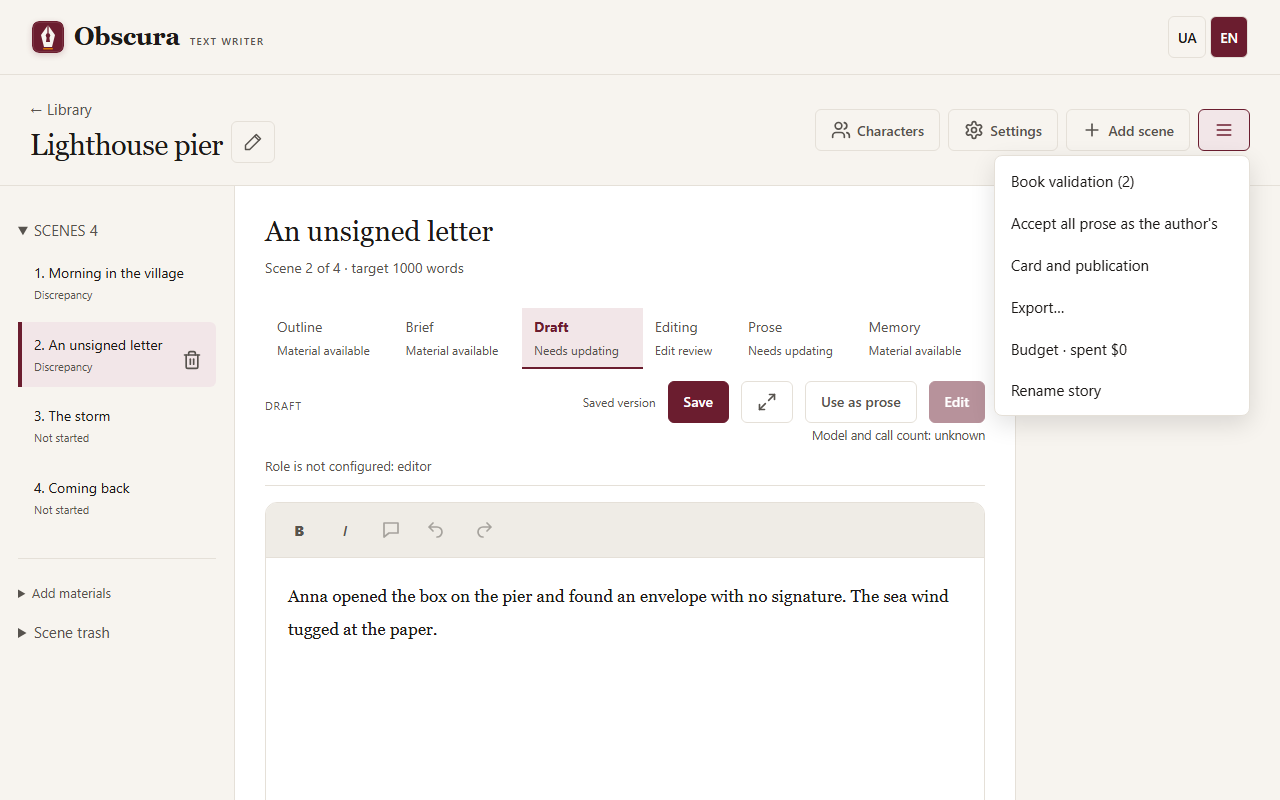
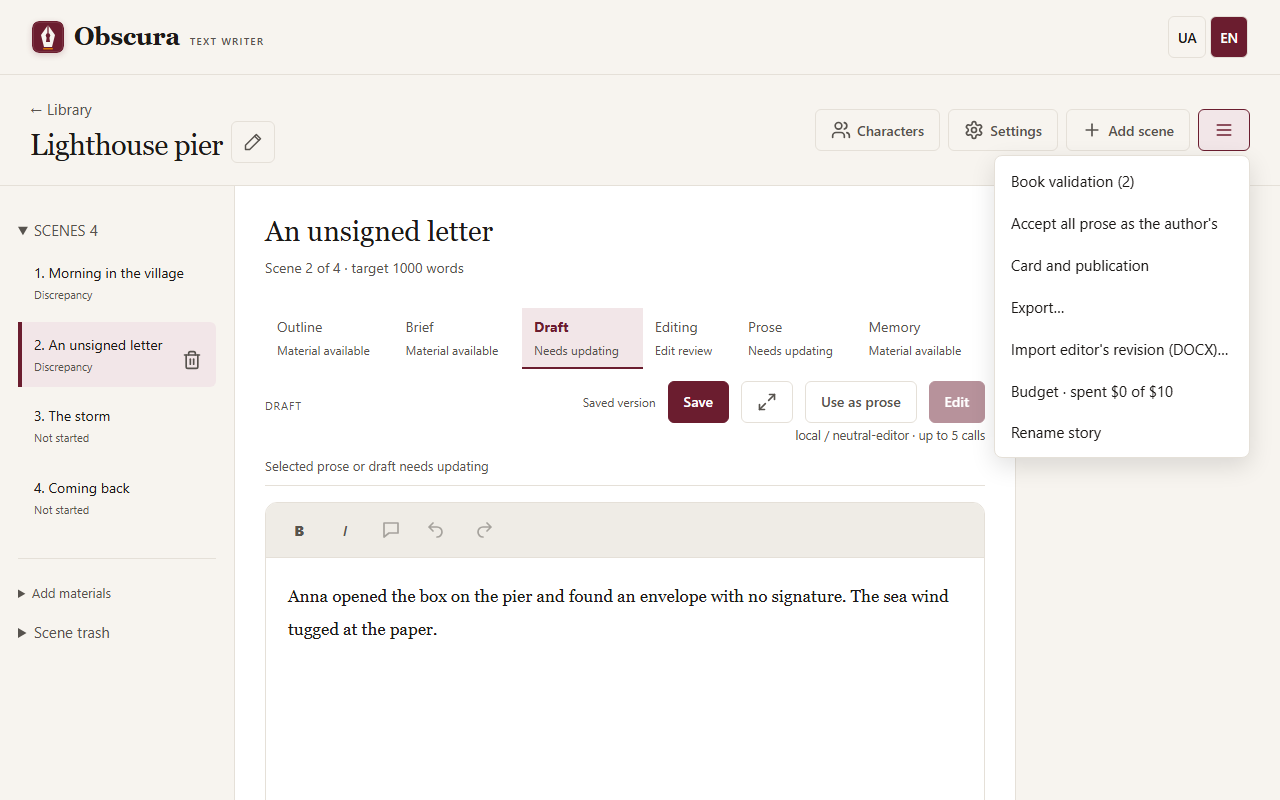
docs(import): сайт uk/en, знімки й SPEC для імпорту редакції
EDITOR-IMPORT-S11 «Діалог імпорту в меню твору»: SPEC (абзац «Інтерфейс»,
поле source у переліку пропозицій EDIT-REVIEW, сусідній пункт у EXPORT-001
й переліку меню; з відомих обмежень прибрано відсутність інтерфейсу й
англійських текстів), traceability (статичні тести + ручна процедура
Playwright docs/verification/manual.md#editor-import-browser), req-маркери
на статичних тестах діалогу.

Оновлені сторінки сайту, обидві мовні версії (uk, en), пари підтверджено
check_site.py --rehash:
- publication: новий розділ «Імпорт редакції (DOCX)» / «Importing the
  editor's revision (DOCX)»; мітки сцен у теперішньому часі;
- revision: речення про мітку «від редактора (DOCX)» з посиланням;
- workspace, first-story: новий пункт у переліку меню твору.

Знімки (scripts/capture_screenshots.py, нейтральний твір STORIES):
- нові docs/images/site/{uk,en}/editor-import-desktop.png — зведення;
- оновлені story-menu-{desktop,mobile}.png uk/en — новий пункт меню.

Changed region(s): [[0.625, 0.4375, 0.9688, 0.5625], [0.2188, 0.5625, 0.375, 0.5938]]

diff --git a/scripts/capture_screenshots.py b/scripts/capture_screenshots.py
@@ -31,7 +31,9 @@ STORIES={
           'prose1':'Анна піднялася гвинтовими сходами до ліхтарної. Унизу, на пристані, Петро махав їй рукою.',
           'prose2':'Анна відчинила скриньку на пристані й побачила конверт без підпису. Вона сховала його в кишеню й пішла додому, не читаючи.',
           'verdict1':('Завдання може розходитися з планом.','План називає ранок у селищі, а завдання — огляд маяка перед світанком.','перед світанком'),
-          'verdict2':('Проза може розходитися із завданням: Анна не читає листа.','Завдання каже, що Анна вирішує прочитати лист, а в прозі вона його не читає.','пішла додому, не читаючи')},
+          'verdict2':('Проза може розходитися із завданням: Анна не читає листа.','Завдання каже, що Анна вирішує прочитати лист, а в прозі вона його не читає.','пішла додому, не читаючи'),
+          # EDITOR-IMPORT-S11: the editor's tracked change in the prose of scene 1 and a comment on the prose of scene 2.
+          'import_edit':('махав їй рукою','помахав їй рукою'),'import_note':('конверт без підпису','Редакторка','Чий це конверт? Варто натякнути раніше.')},
     'en':{'title':'Lighthouse pier','scenes':['Morning in the village','An unsigned letter','The storm','Coming back'],'hero':'Anna',
           'brief':'{"objective":"Anna finds the letter and decides to read it","beats":["Anna opens the box on the pier","Inside lies an envelope with no signature","The sea wind almost tears the paper away"],"constraints":["No flashbacks"],"proposed_changes":[]}',
           'draft':'Anna opened the box on the pier and found an envelope with no signature. The sea wind tugged at the paper.',
@@ -42,7 +44,8 @@ STORIES={
           'prose1':'Anna climbed the spiral stair to the lamp room. Down on the pier, Peter waved to her.',
           'prose2':'Anna opened the box on the pier and found an envelope with no signature. She put it in her pocket and went home without reading it.',
           'verdict1':('The brief may differ from the plan.','The plan names a morning in the village, but the brief has a lighthouse inspection before dawn.','before dawn'),
-          'verdict2':('The prose may differ from the brief: Anna does not read the letter.','The brief says Anna decides to read the letter, but in the prose she does not read it.','went home without reading it')},
+          'verdict2':('The prose may differ from the brief: Anna does not read the letter.','The brief says Anna decides to read the letter, but in the prose she does not read it.','went home without reading it'),
+          'import_edit':('waved to her','waved up at her'),'import_note':('an envelope with no signature','Editor','Whose envelope is it? Worth a hint earlier.')}
 }
 
 
@@ -148,6 +151,17 @@ def seed_stopped_validation(data_dir,ids):
                       ('stage_finished',{'attempt_id':'shot-1','state':'completed','usage':{'cost':{'usd':0.0052}}}),
                       ('audit_step',{'scene_id':first_id,'link':'brief','outcome':'discrepancy','verdict_id':verdict_id,'attempt_id':'shot-1'})):
         run_store.append_run_event(repo,run.id,kind,data)
+
+
+def editor_import_docx(repo,story_id,lang):
+    """EDITOR-IMPORT-S11: the DOCX an editor returns — the story's own manuscript export with a tracked change in scene 1
+    and a comment in scene 2. The export is recorded in the data folder, so it is made after the other shots."""
+    if str(ROOT) not in sys.path:sys.path.insert(0,str(ROOT))  # run as `python scripts/capture_screenshots.py`
+    from storygen.application.exports import export_story
+    from tests.publication.editor_import_helpers import edit,ranged,run,split,tracked
+    spec=STORIES[lang];(old,new),(phrase,author,note)=spec['import_edit'],spec['import_note']
+    content=export_story(repo,story_id,'docx',allow_incomplete=True).read_bytes()
+    return edit(content,lambda xml:split(split(xml,old,tracked(old,new)),phrase,ranged(7,run(phrase))),[(7,author,note)])
 
 
 def free_port():
@@ -259,6 +273,27 @@ def capture_validation(base,ids,lang):
     return shots
 
 
+def capture_editor_import(base,ids,lang,docx):
+    """EDITOR-IMPORT-S11: the import dialog with the summary of the editor's DOCX; nothing is imported."""
+    from playwright.sync_api import sync_playwright
+    folder=OUT/lang;folder.mkdir(parents=True,exist_ok=True);story,scene=ids['story_id'],ids['scene_id']
+    with sync_playwright() as p:
+        browser=p.chromium.launch()
+        try:
+            page=browser.new_page(viewport={'width':1280,'height':800},locale='uk-UA' if lang=='uk' else 'en-US')
+            page.goto(base+'/');page.locator(f'[data-ui-locale={lang}]').click();page.wait_for_load_state('networkidle')
+            page.goto(f'{base}/stories/{story}?scene={scene}&material=draft');page.wait_for_load_state('networkidle')
+            page.locator('#story-menu-toggle').click();page.locator('#import-edition').click()
+            dialog=page.locator('#editor-import-dialog');dialog.wait_for(state='visible')
+            dialog.locator('#editor-import-file').set_input_files({'name':'edition.docx','buffer':docx,
+                'mimeType':'application/vnd.openxmlformats-officedocument.wordprocessingml.document'})
+            dialog.locator('#editor-import-summary').wait_for(state='visible')
+            page.mouse.move(0,0);path=folder/'editor-import-desktop.png';shot(page,path,[])
+            page.close()
+        finally:browser.close()
+    return [path]
+
+
 def shot(page,path,shots):
     page.wait_for_timeout(300);page.screenshot(path=str(path));shots.append(path)
 
@@ -283,6 +318,8 @@ def main(argv=None):
             shots+=capture(base,ids,[lang])
             seed_stopped_validation(data,ids[lang])
             shots+=capture_validation(base,ids[lang],lang)
+            from storygen.storage.repository import Repository
+            shots+=capture_editor_import(base,ids[lang],lang,editor_import_docx(Repository(data),ids[lang]['story_id'],lang))
         finally:
             server.terminate()
             try:server.wait(timeout=10)

diff --git a/tests/test_capture_screenshots.py b/tests/test_capture_screenshots.py
@@ -65,3 +65,19 @@ def test_relative_work_dir_is_resolved_before_seeding(tmp_path,monkeypatch):
     from scripts.capture_screenshots import resolve_work_dir
     monkeypatch.chdir(tmp_path)
     assert resolve_work_dir('shots')==(tmp_path/'shots').resolve()
+
+
+@pytest.mark.req('EDITOR-IMPORT')
+def test_editor_import_docx_gives_a_changed_scene_and_a_comment(tmp_path):
+    from scripts.capture_screenshots import editor_import_docx
+    from storygen.application.editor_import import preview_import
+    ids=seed(tmp_path/'data')
+    repo=Repository(tmp_path/'data')
+    for lang in ('uk','en'):
+        story=ids[lang]['story_id']
+        preview=preview_import(repo,story,editor_import_docx(repo,story,lang))
+        by_id={scene.scene_id:scene for scene in preview.scenes}
+        first,second=by_id[ids[lang]['first_id']],by_id[ids[lang]['scene_id']]
+        assert (first.status,first.edits)==('changed',1)
+        assert second.status=='comments_only' and second.comments==1
+        assert not preview.choice_required and not preview.unmatched

diff --git a/tests/web/test_editor_import_ui.py b/tests/web/test_editor_import_ui.py
@@ -3,11 +3,14 @@ import json
 import re
 from pathlib import Path
 
+import pytest
+
 from tests.web.test_workspace_layout_ui import page
 
 STATIC = Path(__file__).resolve().parents[2]/'src/storygen/web/static'
 
 
+@pytest.mark.req('EDITOR-IMPORT')
 def test_editor_import_dialog_markup(tmp_path):
     tree, html = page(tmp_path)
     menu = html[html.index('<nav id="story-menu"'):html.index('</nav>', html.index('<nav id="story-menu"'))]
@@ -32,6 +35,7 @@ def test_editor_import_dialog_markup(tmp_path):
     assert '<script type="module" src="/static/editor-imports.js"></script>' in html
 
 
+@pytest.mark.req('EDITOR-IMPORT')
 def test_editor_import_strings_and_server_texts():
     catalog = json.loads((STATIC/'i18n.json').read_text(encoding='utf-8'))
     assert catalog['uk']['editor_import.menu'] == 'Імпорт редакції (DOCX)…'

diff --git a/docs/site/uk/publication.md b/docs/site/uk/publication.md
@@ -39,10 +39,49 @@
 
 DOCX і RTF призначені для того, щоб передати книгу зовнішньому редактору; для друку беріть PDF. Рукопис оформлено звично для редакторів: A4, Times New Roman 12 пт, полуторний інтервал, номер сторінки внизу. На титульній сторінці — назва, автори й кількість слів; кожна частина й кожна сцена починаються з нової сторінки, а заголовки мають стилі Word «Заголовок 1» і «Заголовок 2», тож структуру видно в області навігації. Мова тексту береться з картки публікації, щоб Word перевіряв правопис потрібною мовою.
 
-DOCX містить невидимі мітки сцен: за ними Obscura зможе розкласти повернену редакцію назад по сценах. Мітки переживають звичайне редагування й режим рецензування, але зникають разом із заголовком сцени, якщо редактор його видалить. RTF таких міток не має; він для редакторів без Word.
+DOCX містить невидимі мітки сцен: за ними Obscura розкладає повернену редакцію назад по сценах (див. [Імпорт редакції](#імпорт-редакції-docx)). Мітки переживають звичайне редагування й режим рецензування, але зникають разом із заголовком сцени, якщо редактор його видалить. RTF таких міток не має; він для редакторів без Word.
 
 Файл книги завантажується під іменем з автора, назви й дати експорту, наприклад `Автор — Назва — 2026-11-21.epub`. Кількох авторів з'єднано через «та»; коми, крапки й символи, заборонені в іменах файлів Windows, замінено пробілом, а задовгу назву скорочено. Якщо автора не вибрано, ім'я починається з назви.
 
 У тому самому списку є пункт **«План і персонажі (.md)»**. Він дає один читабельний файл із загальними нотатками плану, планом кожної сцени в порядку читання й картками персонажів. Прози для нього не потрібно, але незбережені правки спершу треба зберегти. Файл збирається з поточного стану під час завантаження й не зберігається серед експортів. Назад його не імпортувати: для імпорту є окремі шаблони плану й персонажів.
 
 Для FB2, EPUB, PDF і обкладинки потрібні додаткові залежності `publication`; інсталятор їх містить. Під час встановлення з вихідного коду дивіться [Встановлення](install.md).
+
+### Імпорт редакції (DOCX)
+
+Коли редактор поверне рукопис, перенесіть його правки назад у твір. Obscura не змінює прозу сама: правки стають пропозиціями, які ви приймаєте чи відхиляєте, а модель не викликається.
+
+1. Експортуйте **Рукопис Word (.docx)** і передайте файл редактору.
+2. Редактор править файл у Word, краще з увімкненим режимом виправлень, і лишає примітки до фраз.
+3. Збережіть ручні правки у творі й відкрийте **☰ «Дії твору» → «Імпорт редакції (DOCX)…»**. Поки є незбережені правки, пункт недоступний і показує «Спершу збережіть ручні правки». Виберіть файл до 20 MiB.
+4. Ви побачите зведення: таблицю сцен зі статусом, кількістю правок і приміток та попередженнями. Твір змінюється лише після підтвердження.
+
+![Зведення імпорту редакції](../../images/site/uk/editor-import-desktop.png)
+
+Статуси сцен:
+
+- **змінено** — редактор правив текст; правки стануть пропозицією.
+- **лише примітки** — текст без змін, примітки стануть коментарями.
+- **без змін** — нічого імпортувати.
+- **лише чернетка: правки не вміщуються в перегляд** — правок забагато для перегляду по одній; текст редактора стане новою версією чернетки без пропозиції.
+- **прозу змінено після експорту** і **немає даних про експорт** — ви правили сцену після експорту або редактор працював без режиму виправлень і Obscura не знає, з якого тексту він починав. Такі сцени потребують вашого вибору.
+- **спершу вирішіть попередню пропозицію** — у сцени ще є невирішена пропозиція з попереднього імпорту; повторний імпорт її не дублює.
+- **у сцени немає прози** і **розмітку прози не передати через DOCX** — сцену не імпортовано.
+
+Якщо всі сцени можна імпортувати без вибору, натисніть **Імпортувати (N сцен)**. Якщо є сцени, змінені після експорту, діалог назве їх, а в таблиці для кожної буде видно, що станеться «при заміні». Замість однієї кнопки з'являться три:
+
+- **Скасувати імпорт** — нічого не змінювати й прибрати завантажений файл;
+- **Пропустити змінені сцени** — імпортувати решту, а змінені сцени лишити як є;
+- **Замінити все** — імпортувати й змінені сцени. Ваші пізніші зміни з'являться як правки, які можна відхилити.
+
+Якщо твір змінився, поки було відкрито зведення, імпорт нічого не запише й попросить вибрати файл ще раз.
+
+Після імпорту підсумок показує, скільки сцен імпортовано й пропущено, з посиланнями на сцени. Правки — на вкладці **Редактура** сцени: розгорніть **Правки редактора**; пропозиція має мітку «· від редактора (DOCX)» і примітку, що модель не викликалася. Приймайте правки так само, як після [редактури](revision.md#редактура-сцени). Примітки редактора стають [коментарями чернетки](writing-tools.md#коментарі-до-чернетки): примітка до незміненої фрази прив'язується до неї, інші — до загального коментаря з цитатою. Попередні коментарі чернетки лишаються в попередній версії чернетки.
+
+Обмеження:
+
+- таблиці, зображення, виноски й зміни форматування, окрім курсиву й жирного, не імпортуються — зведення показує попередження;
+- правка в заголовку сцени не імпортується, а сцена, з якої редактор вилучив увесь текст, пропускається;
+- новий абзац, який редактор вставив одразу після списку, цитати чи рядка з розривом, може злитися з ним — зведення попереджає про це, перевірте межі абзаців у пропозиції;
+- перевірено лише з Microsoft Word; Google Docs та інші редактори не перевірялися;
+- імпорт розрахований на DOCX, експортований з Obscura для цього твору; файл з іншого твору відхиляється, а RTF не імпортується.

diff --git a/docs/site/en/publication.md b/docs/site/en/publication.md
@@ -39,10 +39,49 @@ A finished file does not change when you edit the text: create a new export.
 
 DOCX and RTF are for handing the book to an outside editor; for print, use PDF. The manuscript uses the layout editors expect: A4, Times New Roman 12 pt, 1.5 line spacing, page numbers at the bottom. The title page holds the title, the authors and the word count; every part and every scene starts on a new page, and the headings use the Word styles Heading 1 and Heading 2, so the structure shows in the navigation pane. The text language comes from the publication card, so Word checks spelling in the right language.
 
-DOCX carries invisible scene marks: Obscura will use them to sort a returned edit back into scenes. The marks survive ordinary editing and track changes, but disappear together with a scene heading if the editor deletes it. RTF has no such marks; it is for editors without Word.
+DOCX carries invisible scene marks: Obscura uses them to sort a returned edit back into scenes (see [Importing the editor’s revision](#importing-the-editors-revision-docx)). The marks survive ordinary editing and track changes, but disappear together with a scene heading if the editor deletes it. RTF has no such marks; it is for editors without Word.
 
 The book file downloads under a name made of the author, the title and the export date, for example `Author — Title — 2026-11-21.epub`. Several authors are joined with “and” in an English card; commas, full stops and characters Windows does not allow in file names become spaces, and a long title is shortened. Without an author the name starts with the title.
 
 The same list has a **Plan and characters (.md)** item. It gives you one readable file with the general plan notes, the plan of each scene in reading order and the character cards. It needs no prose, but save unsaved edits first. The file is built from the current state when you download it and is not kept among the exports. It cannot be imported back: importing uses the separate plan and character templates.
 
 FB2, EPUB, PDF and covers need the `publication` extras; the installer includes them. For an installation from source, see [Installation](install.md).
+
+### Importing the editor’s revision (DOCX)
+
+When the editor returns the manuscript, bring their edits back into the story. Obscura does not change the prose by itself: the edits become proposals you accept or reject, and no model is called.
+
+1. Export the **Word manuscript (.docx)** and give the file to the editor.
+2. The editor edits the file in Word, preferably with track changes turned on, and leaves comments on phrases.
+3. Save your unsaved edits in the story and open **☰ Story actions → Import editor's revision (DOCX)…**. While there are unsaved edits, the item is unavailable and shows "Save your changes first". Choose a file of up to 20 MiB.
+4. You see a summary: a table of scenes with a status, the number of edits and comments, and warnings. The story changes only after you confirm.
+
+![Editor’s revision import summary](../../images/site/en/editor-import-desktop.png)
+
+Scene statuses:
+
+- **changed** — the editor edited the text; the edits become a proposal.
+- **comments only** — the text is unchanged, the comments become draft comments.
+- **unchanged** — nothing to import.
+- **draft only: the edits do not fit into the review** — there are too many edits to review one by one; the editor’s text becomes a new draft version without a proposal.
+- **prose changed after export** and **no export data** — you edited the scene after the export, or the editor worked without track changes and Obscura does not know which text they started from. These scenes need your choice.
+- **resolve the previous proposal first** — the scene still has an unresolved proposal from an earlier import; importing again does not duplicate it.
+- **the scene has no prose** and **the prose markup cannot pass through DOCX** — the scene is not imported.
+
+If every scene can be imported without a choice, press **Import (N scenes)**. If some scenes changed after the export, the dialog names them, and the table shows for each what happens "if replaced". Instead of one button there are three:
+
+- **Cancel import** — change nothing and remove the uploaded file;
+- **Skip changed scenes** — import the rest and leave the changed scenes as they are;
+- **Replace all** — import the changed scenes too. Your later changes will appear as edits you can reject.
+
+If the story changed while the summary was open, the import writes nothing and asks you to choose the file again.
+
+After the import, the result shows how many scenes were imported and skipped, with links to the scenes. The edits are on the scene’s **Editing** tab: expand **Editor changes**; the proposal is marked “· from editor (DOCX)” with a note that no model was called. Accept the edits as after [editing](revision.md#editing-a-scene). The editor’s comments become [draft comments](writing-tools.md#draft-comments): a comment on an unchanged phrase is attached to it, the others go into the general comment with a quote. The earlier draft comments stay in the previous draft version.
+
+Limitations:
+
+- tables, images, footnotes and formatting changes other than italics and bold are not imported — the summary shows a warning;
+- an edit in a scene heading is not imported, and a scene whose whole text the editor deleted is skipped;
+- a new paragraph the editor inserted right after a list, a quote or a line with a break may merge with it — the summary warns about this, so check paragraph boundaries in the proposal;
+- only Microsoft Word has been tested; Google Docs and other editors have not;
+- the import is meant for a DOCX exported from Obscura for this story; a file from another story is rejected, and RTF is not imported.

diff --git a/docs/verification/manual.md b/docs/verification/manual.md
@@ -546,6 +546,17 @@ PLAN-PREAMBLE-S02, PLAN-PREAMBLE-S04. Запустіть Obscura з порожн
 4. Збережіть імпорт першої копії й перевірте: на вкладці редактури другої сцени є пропозиція з однією правкою, на вкладці чернетки третьої сцени — коментар, проза жодної сцени не змінилася.
 Доказ поведінки закладок — проба специфікації зміни (`docs/superpowers/specs/2026-11/2026-11-24-editor-docx-import-design.md`, §2.5): з рецензуванням Word зберіг усі закладки, без нього закладка сцени з цілком заміненою назвою зникла. Цей зв’язок не є доказом виконання; фактичний запуск фіксується окремо.
 
+<a id="editor-import-browser"></a>
+## Діалог імпорту редакції в браузері
+
+EDITOR-IMPORT-S11. Автоматична частина — Playwright `tests/web/browser/editor-import.spec.mjs` (desktop і mobile), п'ять випадків на synthetic server `tests/web/browser/server.py` (фікстура `/test-editor-import`: три сцени, експортовані в DOCX; редактор виправив першу з режимом виправлень, лишив примітку в другій, а прозу третьої змінено після експорту):
+1. Пункт меню «Імпорт редакції (DOCX)…» відкриває діалог; зведення має три рядки зі статусами «змінено», «лише примітки», «прозу змінено після експорту», три дії вибору з поясненням «Замінити все» і без кнопки «Імпортувати»; на ширині Pixel 7 сторінка не прокручується вбік, а кнопки вибору в межах екрана. Після «Пропустити змінені сцени» підсумок «Імпортовано сцен: 2 · пропущено: 1» з посиланнями `material=review` для першої сцени й `material=draft` для інших; посилання відкриває вкладку редактури, де пропозиція має мітку « · від редактора (DOCX)» і примітку. Повторне відкриття показує порожній вибір файла.
+2. Незбережена правка прози: пункт меню вимкнений, підказка й `#import-edition-reason` — «Спершу збережіть ручні правки», діалог не відкривається, правка лишається в редакторі.
+3. «Скасувати імпорт» після зведення надсилає `DELETE …/editor-import/{import_id}` і закриває діалог; повторне відкриття показує порожній стан.
+4. Прозу змінено після зведення: «Замінити все» показує «Твір змінився після зведення; перегляньте його ще раз», тимчасовий файл видаляється, діалог повертається до вибору файла.
+5. Англійський інтерфейс: статуси, попередження й підсумок англійською, без українських рядків, крім назв сцен; посилання на сцену лише з примітками відкриває її чернетку.
+Запуск: `cd frontend; node node_modules/@playwright/test/cli.js test ../tests/web/browser/editor-import.spec.mjs` з абсолютним `PYTHONPATH=<робоча копія>/src`. Цей зв’язок не є доказом виконання; фактичний запуск фіксується окремо.
+
 <a id="link-decision-browser"></a>
 ## Рішення автора для зв'язків сцени
 

diff --git a/docs/site/uk/workspace.md b/docs/site/uk/workspace.md
@@ -20,7 +20,7 @@
 - **Персонажі** відкриває картки персонажів окремою сторінкою.
 - **Налаштування** відкриває моделі, письмо, оцінювач і бюджет цього твору.
 - **Додати сцену** створює сцену одразу після відкритої (якщо сцену не відкрито — у кінці списку) й одразу заповнює її план за шаблоном. З плану попередньої сцени переносяться локація, учасники, ключове усвідомлення й емоційний акцент; її «Кінець» стає «Початок» нової сцени, а «Що відбувається» — «Що було в попередніх сценах». «Кінець», «Що відбувається» і три пункти «Дії» лишаються порожніми. Номер у заголовку — місце нової сцени в списку; номери наступних сцен у їхніх планах зсуваються. Сцена, додана в кінець, отримує номер, наступний після номера попередньої сцени. В англійському творі мітки плану англійські. Чого в попередньому плані немає, те лишається порожнім; усе можна одразу виправити в плані.
-- Меню **☰ «Дії твору»** містить усе, що стосується всього твору: **Валідація книги** з кількістю невалідних сцен ([валідація книги](#валідація-книги)), **Прийняти всю прозу як авторську** (коли проза хоча б однієї сцени не перевірена), **Картка й публікація**, **Експорт…**, оцінювання твору й звіти (якщо налаштовано оцінювач), рядок бюджету й **Перейменувати**. Меню відкривається клавіатурою; `Escape` закриває його.
+- Меню **☰ «Дії твору»** містить усе, що стосується всього твору: **Валідація книги** з кількістю невалідних сцен ([валідація книги](#валідація-книги)), **Прийняти всю прозу як авторську** (коли проза хоча б однієї сцени не перевірена), **Картка й публікація**, **Експорт…**, **Імпорт редакції (DOCX)…** ([імпорт редакції](publication.md#імпорт-редакції-docx)), оцінювання твору й звіти (якщо налаштовано оцінювач), рядок бюджету й **Перейменувати**. Меню відкривається клавіатурою; `Escape` закриває його.
 
 ![Меню «Дії твору»](../../images/site/uk/story-menu-desktop.png)
 

diff --git a/docs/site/en/workspace.md b/docs/site/en/workspace.md
@@ -20,7 +20,7 @@ If there are many scenes, click the **Scenes** heading with their count: the lis
 - **Characters** opens the character cards on a separate page.
 - **Settings** opens the models, writing, evaluator and budget for this story.
 - **Add scene** creates a scene right after the open one (at the end of the list if no scene is open) and fills its outline from a template right away. Location, characters, key realisation and emotional focus are carried over from the previous scene's outline; its "End" becomes the "Start" of the new scene, and its "What happens" becomes "Previously". "End", "What happens" and the three "Beats" items stay empty. The number in the heading is the new scene's place in the list; the numbers in the outlines of the following scenes move on. A scene added at the end gets the number after the previous scene's number. In a Ukrainian story the outline labels are Ukrainian. Whatever the previous outline lacks stays empty; you can correct everything in the outline straight away.
-- The **☰ Story actions** menu holds everything that concerns the whole story: **Book validation** with the number of invalid scenes ([book validation](#validating-the-book)), **Accept all prose as the author's** (when the prose of at least one scene is unchecked), **Card and publication**, **Export…**, story evaluation and reports (when an evaluator is configured), the budget line and **Rename story**. The menu works from the keyboard; `Escape` closes it.
+- The **☰ Story actions** menu holds everything that concerns the whole story: **Book validation** with the number of invalid scenes ([book validation](#validating-the-book)), **Accept all prose as the author's** (when the prose of at least one scene is unchecked), **Card and publication**, **Export…**, **Import editor's revision (DOCX)…** ([editor’s revision import](publication.md#importing-the-editors-revision-docx)), story evaluation and reports (when an evaluator is configured), the budget line and **Rename story**. The menu works from the keyboard; `Escape` closes it.
 
 ![Story actions menu](../../images/site/en/story-menu-desktop.png)
 

diff --git a/docs/site/uk/revision.md b/docs/site/uk/revision.md
@@ -5,7 +5,7 @@
 Етап **Редактура** йде після чернетки. Редактор пропонує правки, а ви вирішуєте, що прийняти.
 
 - **Точкові мовні правки** (налаштування ролі редактора) виправляють орфографію, пунктуацію й окремі речення, не переписуючи текст. Застосування буває **автоматичним після перевірки** або **спершу переглядом автором**.
-- У перегляді відкрийте **Правки редактора**, позначте потрібні заміни й натисніть **Прийняти правки**: це створює нову версію прози.
+- У перегляді відкрийте **Правки редактора**, позначте потрібні заміни й натисніть **Прийняти правки**: це створює нову версію прози. Правки з рукопису, який повернув зовнішній редактор, з’являються тут само з міткою «· від редактора (DOCX)» — див. [Імпорт редакції](publication.md#імпорт-редакції-docx).
 - Якщо етап зупинився на вашому рішенні, після прийняття натисніть **Продовжити після прийнятого етапу**: редактор повторно не викликається.
 
 В історії версій можна вибрати чернетку чи прозу й натиснути **Перевірити мову вибраної версії**. Правила знаходять літери іншої абетки, змішані абетки в слові, повтори сусідніх слів і дефіс замість тире в репліці. Перевіряється збережена версія, без виклику моделі.

diff --git a/docs/site/en/revision.md b/docs/site/en/revision.md
@@ -5,7 +5,7 @@
 The **Editing** stage follows the draft. The editor suggests changes, and you decide what to accept.
 
 - **Targeted language edits** (an editor role setting) fix spelling, punctuation and single sentences without rewriting the text. They are applied **Automatically after validation** or after **Author review first**.
-- In review, open **Editor changes**, tick the replacements you want and press **Accept edits**: this creates a new prose version.
+- In review, open **Editor changes**, tick the replacements you want and press **Accept edits**: this creates a new prose version. Edits from a manuscript an outside editor returned appear here too, marked “· from editor (DOCX)” — see [Importing the editor’s revision](publication.md#importing-the-editors-revision-docx).
 - If the stage stopped for your decision, after accepting press **Continue after accepted stage**: the editor is not called again.
 
 In the version history you can choose a draft or prose version and press **Check the selected version’s language**. The rules find letters from another alphabet, mixed alphabets within a word, repeated neighbouring words and a hyphen instead of a dash in dialogue. The saved version is checked, with no model call.

diff --git a/docs/site/uk/first-story.md b/docs/site/uk/first-story.md
@@ -36,7 +36,7 @@
 
 ## Дії твору
 
-Усе, що стосується всього твору, зібрано в меню **☰ «Дії твору»** праворуч від назви: **Прийняти всю прозу як авторську** (коли є неперевірена проза), **Картка й публікація**, **Експорт…**, бюджет і перейменування. Експорт у Markdown, TXT, FB2, EPUB, PDF, DOCX чи RTF доступний, щойно сцени мають прийнятий текст.
+Усе, що стосується всього твору, зібрано в меню **☰ «Дії твору»** праворуч від назви: **Прийняти всю прозу як авторську** (коли є неперевірена проза), **Картка й публікація**, **Експорт…**, **Імпорт редакції (DOCX)…**, бюджет і перейменування. Експорт у Markdown, TXT, FB2, EPUB, PDF, DOCX чи RTF доступний, щойно сцени мають прийнятий текст.
 
 ## Далі
 
